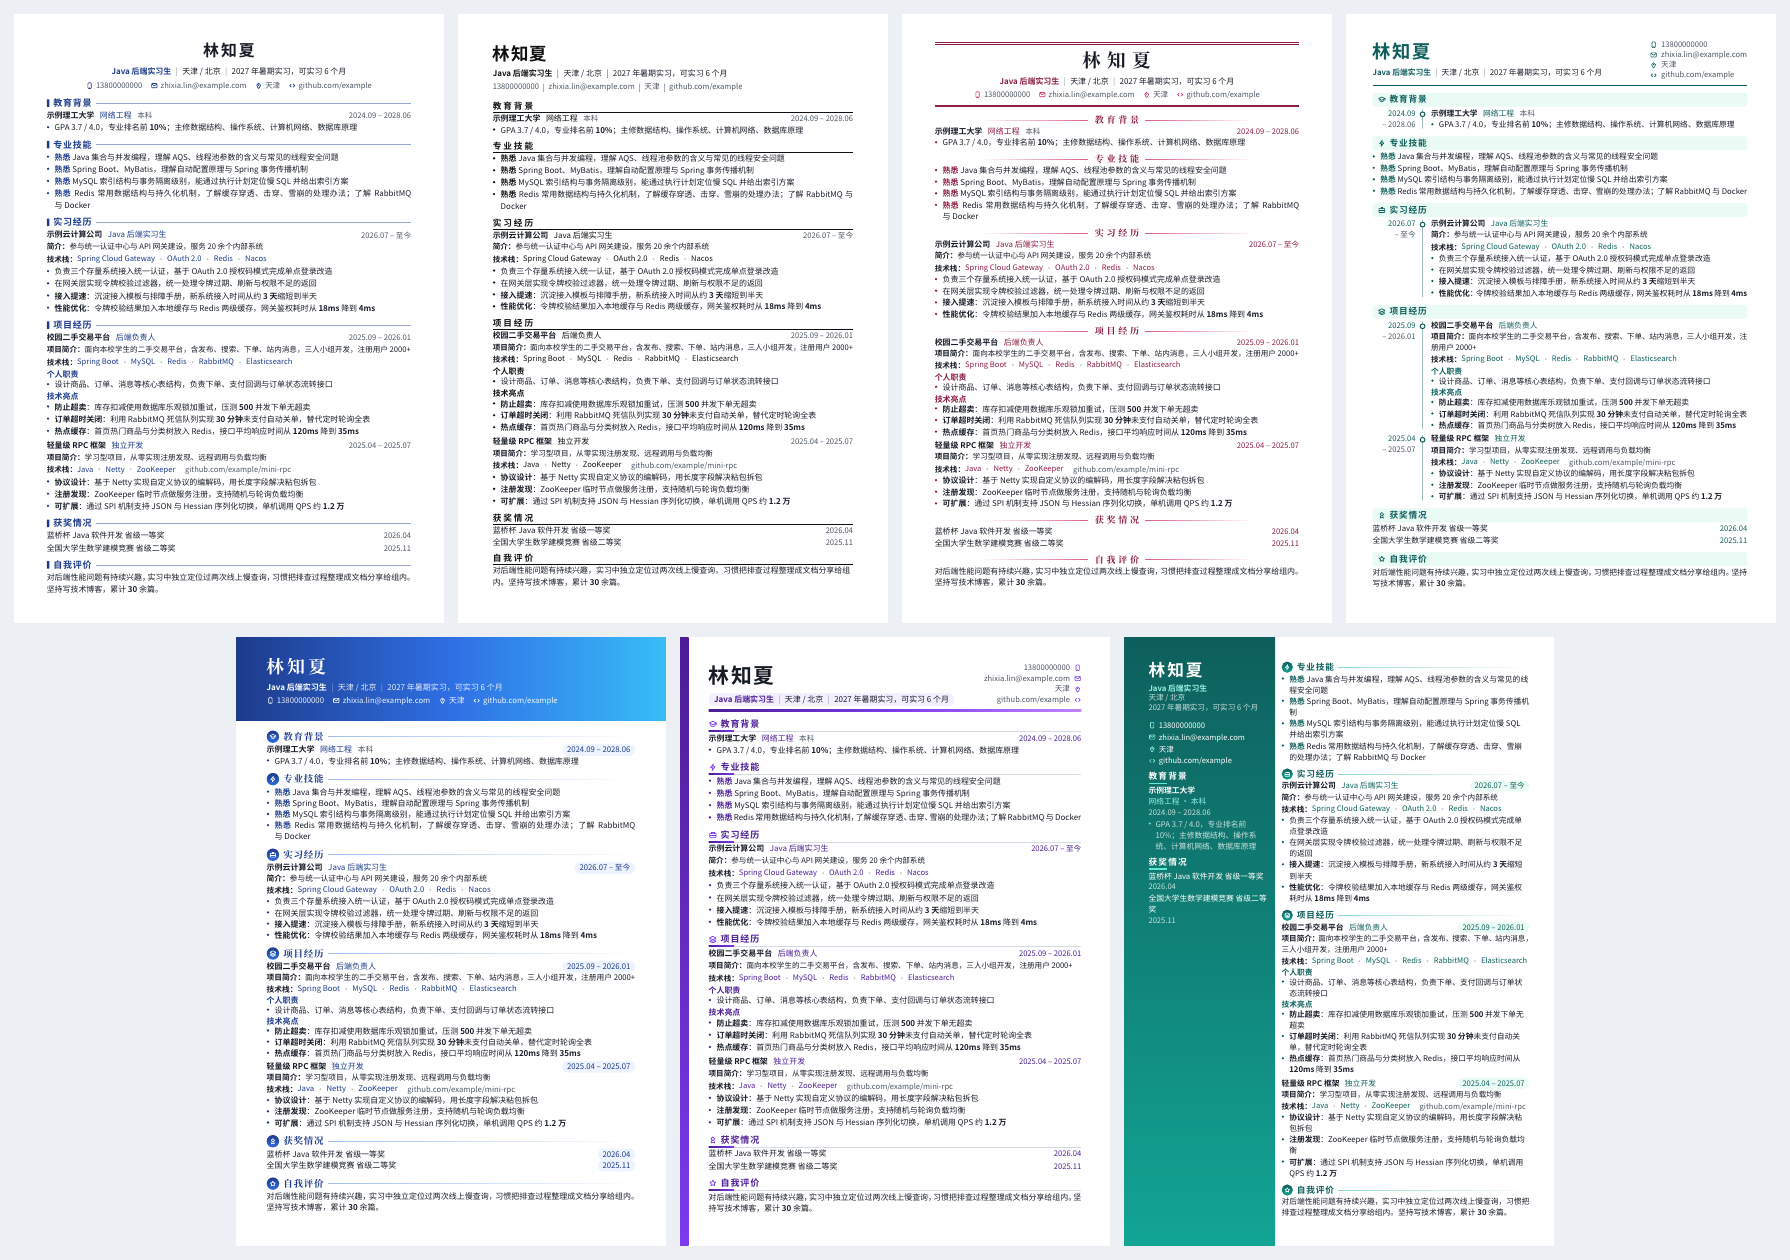
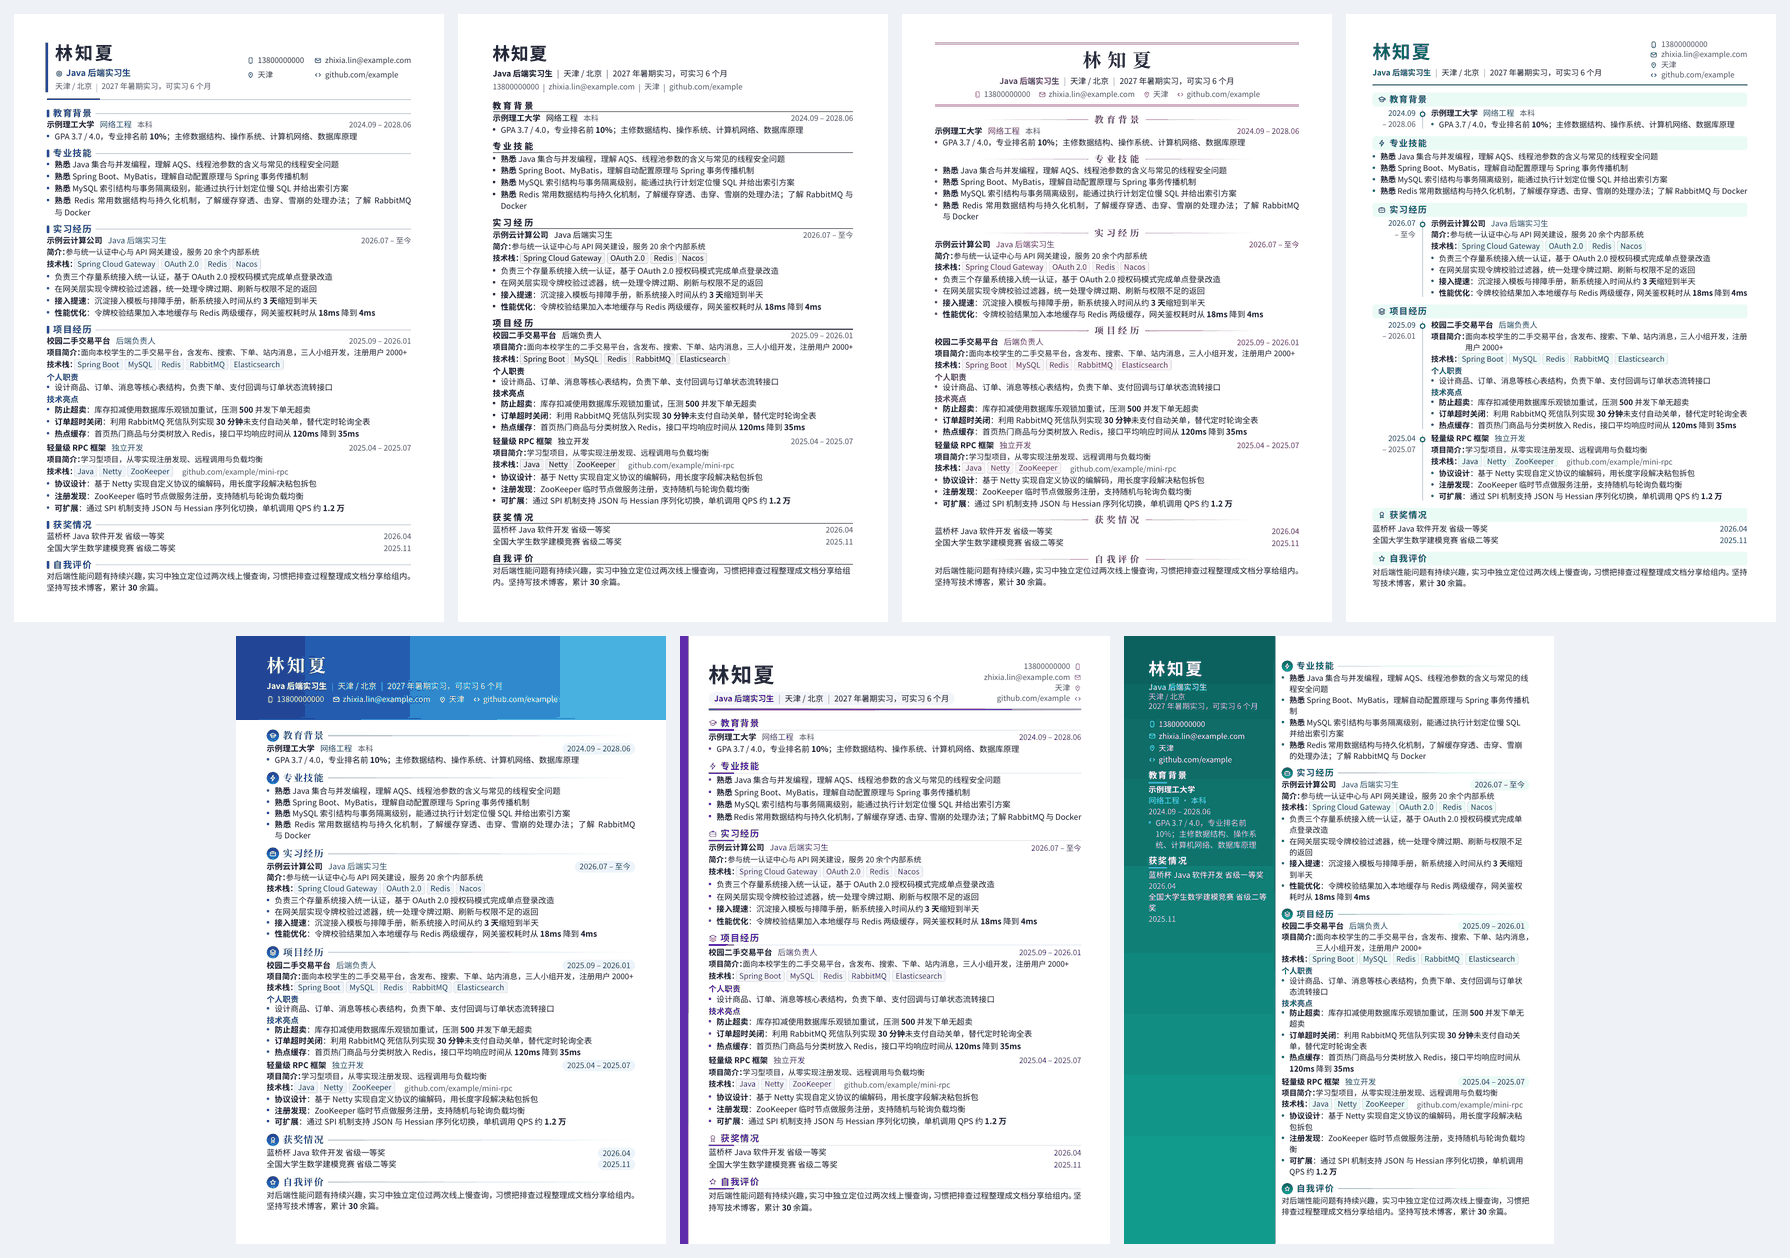
docs: 重写 README，更新截图

diff --git a/README.md b/README.md
@@ -1,151 +1,93 @@
 # 如页 Ruye
 
-**开源、本地优先的中文技术简历编辑器。所见即导出：预览是什么样，导出的 PDF 就是什么样。**
+开源、本地优先的中文技术简历编辑器。预览用的就是导出 PDF 的那次排版，看到什么就导出什么。
 
 [![CI](https://github.com/a-xiaoyuan/ruye-resume/actions/workflows/ci.yml/badge.svg)](https://github.com/a-xiaoyuan/ruye-resume/actions/workflows/ci.yml)
 [![在线 Demo](https://github.com/a-xiaoyuan/ruye-resume/actions/workflows/pages.yml/badge.svg)](https://a-xiaoyuan.github.io/ruye-resume/)
 [![License: MIT](https://img.shields.io/badge/license-MIT-blue.svg)](LICENSE)
-![Node](https://img.shields.io/badge/node-%E2%89%A522.18-339933)
-![pnpm](https://img.shields.io/badge/pnpm-10-f69220)
 
-你只负责写内容，排版交给一个真正的排版引擎（[Typst](https://typst.app)）。
-不登录就能用，没有会员、没有水印，默认简历不出你的浏览器；需要多台电脑同步时，可以自己部署一个可选的同步后端（Spring Boot）。
+**在线使用：<https://a-xiaoyuan.github.io/ruye-resume/>**
+无需注册。首次打开要下载约 34MB 的排版引擎和字体，之后由浏览器缓存。
 
-**在线使用：<https://a-xiaoyuan.github.io/ruye-resume/>**（纯静态页面，首次打开需要下载约 34MB 的排版引擎和字体，之后浏览器会缓存）
+![如页编辑器](docs/ui.png)
 
-![如页编辑器：左侧版式与模块，中间表单，右侧 A4 实时预览](docs/ui.png)
+## 特点
 
-## 三句话认识如页
+- **预览即导出**：预览和 PDF 都由浏览器里的 [Typst](https://typst.app) WASM 排版，用同一份输入、同一次排版结果，不存在网页和打印两套样式。
+- **一页就是一页**：A4 智能一页在可读性底线内自动收紧；实在装不下就直接报错，说明超出多少毫米、哪个模块最占地方，不会偷偷缩小字号或多出一页。
+- **本地优先**：简历保存在浏览器本地，PDF 在本地生成，断网也能用。需要多台电脑同步时，可以自己部署可选的同步后端。
 
-1. **预览与 PDF 同源。** 整个应用只有一个排版器——浏览器里的 Typst WASM。预览用它出 SVG，导出用它出 PDF，喂的是同一份输入、同一次排版结果。不用 html2canvas 截图，也没有「网页一套、打印一套」。
-2. **「一页」是诚实的。** A4 智能一页会在可读性底线内自动收紧；**装不下就明确失败**，告诉你超出多少毫米、哪个模块最占地方，而不是悄悄把字缩成蚂蚁或多打一页。
-3. **本地优先。** 简历默认只存在 localStorage，PDF 在本地生成，断网也能用。登录同步是可选的：本机始终是主副本，云端只是同步副本，两边同时改过时两份都保留，不会二选一丢掉。
+## 页面模式
 
-## 三种页面模式
-
-| 模式 | 是什么 | 适合 |
+| 模式 | 说明 | 适合 |
 |---|---|---|
-| **A4 智能一页** | 真正的 210×297mm 一页。超出时按「间距 → 紧凑版式 → 行距 → 字号」逐步收紧，装不下就报错并给出溢出报告；内容明显不满一页时，在上限内放宽间距与行距，让页面自然填满（字号不变） | 打印、投递 |
-| **无损长一页** | A4 宽、高度随内容变化的**单页** PDF。不缩字号、不挤版面 | 屏幕投递（邮件、网申附件） |
-| **标准分页** | 普通 A4 分页。多于一页时页脚印「1 / 2」，页数取自 Typst 实际分页，导出后再读 PDF 自身页数核对 | 打印 |
+| A4 智能一页 | 超出时依次收紧间距、版式、行距、字号；装不下时报错并给出溢出报告。内容偏少时适当放宽间距 | 打印、投递 |
+| 无损长一页 | A4 宽、高度随内容变化的单页 PDF，不缩字号 | 邮件、网申附件 |
+| 标准分页 | 普通 A4 分页，页脚印页码 | 打印 |
 
-可读性底线：正文 ≥ 10.5pt，行距 ≥ 1.35，页边距 ≥ 12mm。
-溢出报告来自真实排版——每个模块、条目占多高，是**把它拿掉重排一次量出来的**，不是按字数估算。预览里会直接画出 A4 底边和溢出区域。
+可读性底线：正文 ≥ 10.5pt，行距 ≥ 1.35，页边距 ≥ 12mm。溢出报告里每个模块的高度，是把它拿掉后重新排版实际量出来的。
 
-## 七套模板 × 六种主题色
+## 模板
 
-| 模板 | 风格 | 推荐场景 |
-|---|---|---|
-| `classic` 经典 · 简洁（默认） | 页眉左右两栏：左边姓名与求职意向（主色竖条收边），右边联系方式排成小表格；单一主色、细线标题，照片在最右 | 绝大多数投递，打印与系统解析最稳妥 |
-| `minimal` 极简 · 黑白 | 只用黑与深灰，无图标无色块，标题下一条黑线（主题色不生效） | 黑白打印、对格式要求保守的投递 |
-| `elegant` 雅致 · 衬线 | 页眉上下双细线、宋体姓名居中，模块标题居中、两侧渐隐短线 | 国企、银行、研究岗 |
-| `timeline` 时间轴 | 经历按时间轴排：左侧时间列、竖线与圆点，右侧内容；浅色标签条标题 | 经历多、时间线清晰 |
-| `campus-serif` 校招 · 横幅 | 页顶通栏渐变横幅、白色姓名与联系方式，模块标题配渐变圆形图标，日期是浅色胶囊 | 应届生、实习 |
-| `social-sans` 社招 · 侧条 | 纸张左缘渐变色条、大号姓名、联系方式竖排，信息更密，技能与履历优先 | 1～8 年经验 |
-| `split-compact` 双栏 · 深色侧栏 | 左侧深色渐变侧栏（白字、技能胶囊），右侧经历；按实测高度自动平衡两栏 | 内容多、想压住一页 |
+七套模板，六种主题色（海蓝、青碧、胭脂、紫藤、琥珀、石墨），换模板、换颜色都不用重填内容。
 
-主题色：海蓝 / 青碧 / 胭脂 / 紫藤 / 琥珀 / 石墨，每个主题是一整套色板（深色主色、鲜明辅色、亮色、浅底），渐变和色块都从同一套色板取色。文字只用深色主色，打印对比度有保证。同一份内容随时换模板换色，不用重填。
+| 模板 | 风格 |
+|---|---|
+| 经典 · 简洁（默认） | 左边姓名与求职意向，右边联系方式，单一主色，适合大多数投递 |
+| 极简 · 黑白 | 只用黑与深灰，适合黑白打印 |
+| 雅致 · 衬线 | 宋体姓名居中，适合国企、银行、研究岗 |
+| 时间轴 | 左侧时间列，经历按时间排列 |
+| 校招 · 横幅 | 顶部渐变横幅，适合应届生、实习 |
+| 社招 · 侧条 | 左缘色条、信息更密，适合 1～8 年经验 |
+| 双栏 · 深色侧栏 | 左侧深色侧栏，两栏按实际高度自动平衡 |
 
-![七套模板预览：同一份完整示例，A4 智能一页](docs/preview.png)
+![七套模板预览](docs/preview.png)
 
-## 编辑体验
+## 编辑器
 
-- **排版台**：左侧是浮在背景上的编辑面板，顶部一排模块标签，点一下跳到对应模块；右侧是 A4 实时预览，纸张旁有一把「模块高度标尺」，哪个模块最占地方一眼可见，点标尺也能跳过去。模板、主题色与页面模式在顶栏「外观」里，缩略图用真实排版生成。排版在后台线程（Web Worker）里跑，长简历收紧时打字也不卡；连续修改时只排最新一版。编辑器界面有浅色 / 深色两种皮肤，背景带轻微的粒子与光晕动效（系统开启「减少动态效果」时自动关闭）。
-- **我的简历**：所有简历以封面卡片列出，可新建、复制、重命名、删除，为不同岗位各存一版（如「投字节-后端」）。删除的简历先进回收站；每份简历自动保存历史版本，可以对比字数变化并一键恢复。登录同步后，云端的历史版本也会一起列出。
-- **十一种模块**：基本信息（含照片）、求职意向、教育、工作、实习、项目、技能、科研、论文、获奖、自我评价。要点里单独一行「个人职责：」会成为分块小标题，「防止超卖：……」会加粗句首短标题。模块可拖拽排序、显隐开关，也可一键按当前模板的推荐顺序排列。
-- **专业技能两种写法**：「分类 ｜ 技能、技能」列技术栈，描述句写掌握深度（句首的「精通 / 熟悉 / 了解」自动加粗），可以只用一种，也可以混用。
-- **为写简历设计的表单**：日期直接点选年月（选完开始自动弹出结束，一键「至今」，结束早于开始会提示）；性别、城市、学历、到岗时间等常用值一点即填；技术栈标签输入并按你已写过的技术给出候选；要点逐条编辑，粘贴一段带序号或圆点的文字会自动拆成多条；出生年月可选择在简历上显示为年龄。全局撤销 / 重做（Ctrl+Z / Ctrl+Shift+Z），拖入 `.ruye.json` 或 Markdown 文件即可导入。
-- **两种数据格式**：`.ruye.json` 与 Markdown **双向互转**（照片以内嵌图片保存在 Markdown 里，文件自包含），可以用 Git 管理你的简历，也可以粘贴给别的工具。
-- **PDF 质量**：文字可选中、可搜索，链接可点击，中文字体内嵌，不是整页位图。
-- **缺字检测**：内置字体是 GB2312 子集（3 个文件共 5.6MB，完整字体要 27.6MB），导出前会列出缺字，避免交付一份带方块的简历。
-- **按岗位的示例**：「文件 → 从岗位示例新建」提供 Java 后端、Go 后端、前端、测试开发、算法、产品经理六份原创示例，各配一套合适的模板，内容按「职责 / 成果」分块、带量化结果。
-- **写作建议**：编辑时在当前模块上方提示可以改进的地方——缺联系方式、整段经历没有一个数字、单条过长、只写了「负责 / 参与」、经历重复、「精通」用得太多。只是建议，不影响导出。
-- **可选云同步**：配置了后端地址时，顶栏出现「登录同步」。登录后多份简历在后台自动同步（版本号乐观锁）；两台设备同时改过同一份时，云端版本另存为「冲突副本」；其他设备删除时本机保留，可在账号菜单里重新开启同步。支持退出所有设备、找回密码、注销账号。退出登录、注销账号都不删除本机内容。
-- **导入安全**：链接只接受 http、https、mailto，预览前再清理一遍，打开别人发来的简历文件不会执行脚本。
-
-## 和同类工具的取舍
-
-| 维度 | 如页 Ruye | Reactive Resume | 木及简历 | 简单简历 |
-|---|---|---|---|---|
-| 定位 | 中文技术简历，本地优先 | 全功能简历平台 | Markdown 简历工具 | 表单 + AI 简历工具 |
-| 开源 | MIT，全部代码 | MIT，可 Docker 自托管 | 编辑器核心开源 | 在线服务，未开源 |
-| 账号 | 不需要；同步可选，需自部署后端 | 托管版需要；自托管不需要 | 需要（云端保存） | 需要 |
-| 数据位置 | 默认只在本机浏览器；开启同步后另存一份到你自己的后端 | 自托管数据库或官方云 | 远端存储 | 官方云 |
-| 编辑方式 | 表单 + Markdown/JSON 互转 | 表单，多简历与求职追踪 | Markdown | 表单 + AI 改写 |
-| 排版 | Typst WASM，预览与 PDF 同一排版器 | Web 渲染 | Web 渲染 | Web 渲染 |
-| 一页策略 | 底线内收紧，装不下明确报错并量化溢出 | 自由分页 | 智能一页（官方宣传） | 以模板分页为主 |
-| 导出 | PDF / Markdown / JSON，免费 | PDF / Word / Markdown / JSON | PDF / MD / PNG | 编辑分享免费，PDF 下载为会员功能 |
-
-> 竞品信息来自各自官网与公开资料（2026-11），功能以其最新说明为准。如页不做托管账号、AI 改写、求职追踪；同步只连你自己部署的后端，本机始终是主副本——不想让「一份简历」变成「一份需要平台替你保管的数据」。如果你需要那些能力，上面的工具更值得选。
+- **十一种模块**：基本信息（含照片）、求职意向、教育、工作、实习、项目、技能、科研、论文、获奖、自我评价，可排序、隐藏。
+- **省事的表单**：日期点选年月，一键「至今」；城市、学历、到岗时间等常用值一点即填；技术栈按标签输入；粘贴带序号的段落会自动拆成多条要点；出生年月可显示为年龄。
+- **模块高度标尺**：预览旁标出每个模块占多高，点击跳到对应模块。
+- **写作建议**：提示缺联系方式、经历里没有数字、单条过长、只写了「负责 / 参与」等问题。
+- **多份简历**：「我的简历」里新建、复制、重命名、删除；删除先进回收站，每份简历自动保存历史版本，可随时恢复。支持撤销 / 重做。
+- **导入导出**：PDF（文字可选中、链接可点击、字体内嵌）、`.ruye.json`、Markdown，后两者可以互相转换。导出前会检查字体缺字。
+- **按岗位的示例**：Java 后端、Go 后端、前端、测试开发、算法、产品经理六份虚构示例。
 
 ## 快速开始
 
-需要 **Node.js ≥ 22.18**（直接运行 TypeScript 测试）与 **pnpm 10**。
+需要 Node.js ≥ 22.18 和 pnpm 10。
 
 ```bash
 pnpm install
-pnpm fonts      # 首次：下载思源字体并生成子集（见 docs/fonts.md）
-pnpm dev        # 启动编辑器，默认 http://localhost:5173
+pnpm fonts      # 首次运行：下载思源字体并生成子集，需要 pip install fonttools
+pnpm dev        # http://localhost:5173
 ```
 
 | 命令 | 作用 |
 |---|---|
-| `pnpm test` | 单元测试 + 真实 Typst 黄金测试（无字体时黄金测试自动跳过并说明原因） |
-| `pnpm typecheck` | 对 packages 与 apps/web 做严格类型检查 |
-| `pnpm smoke` | 用真实排版把三份样本按三种模式各导出一遍，输出 `out/*.pdf` 与 `out/report.md` |
-| `pnpm build` | 构建静态站点到 `apps/web/dist`，可直接部署到 GitHub Pages 等任意静态托管 |
+| `pnpm test` | 单元测试与 Typst 黄金测试（没有字体时跳过黄金测试并说明原因） |
+| `pnpm typecheck` | 类型检查 |
+| `pnpm e2e` | Playwright 端到端测试 |
+| `pnpm build` | 构建静态站点到 `apps/web/dist` |
 
-## 它是怎么工作的
+## 同步后端（可选）
 
-```
-一份文档（.ruye.json / Markdown）
-   │  packages/schema     类型定义、零依赖校验器、Markdown 双向映射
-   ▼
-packages/engine           measure → fit-a4 / continuous / standard
-   │                      产出 tokens + 页高 + 溢出报告
-   │  packages/templates  Typst 模板 + default/floor 两套 token + 推荐模块顺序
-   ▼
-Typst WASM（浏览器内）──→ SVG → 右侧预览
-                      └─→ PDF → 本地下载
-```
+`server/` 是 Java 17 + Spring Boot 3 的同步服务：注册登录、多份简历同步、云端历史版本。默认用 H2，也支持 MySQL。不登录时前端不会访问它。部署方式见 [server/README.md](server/README.md)。
 
-关键点：**预览和导出共用同一次 layout 的结果**，所以不存在「预览一个样、导出另一个样」。
-前端构建产物是纯静态文件，不依赖后端。`server/` 是可选的同步后端（Java 17 + Spring Boot 3 + Spring Security JWT + JPA，H2 / MySQL），详见 [server/README.md](server/README.md)。
+本机始终是主副本。两台设备同时改了同一份简历时，两份都会保留；退出登录或注销账号都不会删除本机内容。
+
+## 项目结构
 
 ```
-apps/web/               Vite + React 18 编辑器（版式面板、模块导航、表单、预览）
-packages/schema/        文档类型、零依赖校验、Markdown 互转、日期归一化
-packages/engine/        排版引擎：measure / fit-a4 / continuous / 溢出报告 / Typst 后端
-packages/templates/     七套 Typst 模板、common.typ、排版 token
-server/                 可选的云同步后端（Spring Boot）：注册登录、简历同步 API
-fixtures/               虚构示例：full（默认载入）/ 五个岗位示例 role-* / 排版测试样本 short / medium / long
-e2e/                    Playwright 端到端测试
-tests/                  单元测试与 Typst 黄金测试
-docs/                   设计说明、字体说明、界面与模板截图、阶段报告
-scripts/                字体下载与子集、smoke 导出
+apps/web/            React 编辑器
+packages/schema/     文档类型、校验、Markdown 互转
+packages/engine/     排版引擎：一页收紧、长一页、分页、溢出报告
+packages/templates/  Typst 模板与排版参数
+server/              可选的同步后端
+fixtures/            虚构示例简历
+tests/  e2e/         单元测试、端到端测试
 ```
 
-## 测试与 CI
+## 许可证
 
-- **单元与集成测试 114 项**（`pnpm test`）：schema 校验与 Markdown 互转、写作检查、文档操作、排版引擎、云同步三方合并与令牌自动刷新、导入解析、缩略图是否过期、Typst 真实黄金测试（七套模板 × 样本 × 模式）。
-- **后端接口测试 18 项**（`cd server && mvn test`）：注册登录、刷新令牌轮换与重用检测、退出所有设备、找回密码、注销账号、IP 与邮箱限流、版本冲突、账号隔离、文档校验与限额、CORS、定时清理。
-- **端到端测试**（Playwright，真实浏览器）：`pnpm e2e` 走编辑、换模板、导出 PDF、Markdown 往返、撤销、刷新后内容仍在、写作建议；先启动后端再运行 `pnpm e2e:sync`，用两个浏览器上下文模拟两台设备测同步。首次运行先 `pnpm exec playwright install chromium`；下载慢时可设置 `E2E_BROWSER_CHANNEL=chrome` 直接用本机 Chrome。
-- **CI**：每次 push 到 `main` 自动执行前端 `install → typecheck → test → 准备字体 → test → build`，以及后端 `mvn test`（见 `.github/workflows/ci.yml`）。
-- 黄金测试依赖真实字体与 WASM，本地没准备好时会自动跳过并打印原因，不会假装通过。
-
-## 路线图
-
-已完成：文档模型与校验、排版引擎与溢出报告、七套模板与六种主题色、要点小标题与自我评价、三栏编辑器、多份简历、Markdown/JSON 互转、本地自动保存、Web Worker 排版、GitHub Pages 在线 Demo、可选的账号与云同步后端。
-
-计划中：缺字时按需加载完整字体、只读分享链接。
-
-**明确不做**：强制登录、支付、会员、AI 改写、服务端渲染、自动删减你的内容。
-
-## 字体与许可证
-
-- 代码：**MIT**（见 [LICENSE](LICENSE)）
-- 字体：思源黑体 / 思源宋体（Noto Sans SC / Noto Serif SC），**SIL Open Font License 1.1**。字体不进仓库，用 `pnpm fonts` 下载并裁成子集（需要 `pip install fonttools`），体积与缺字处理详见 [docs/fonts.md](docs/fonts.md)。
-
-## 贡献
-
-欢迎 Issue / PR。新模板请走「token + Typst 模板文件」的方式（见 `packages/templates`），不要引入后端。提交前请跑 `pnpm test` 与 `pnpm typecheck`。
+代码使用 [MIT](LICENSE)。字体为思源黑体 / 思源宋体（SIL Open Font License 1.1），不放进仓库，由 `pnpm fonts` 下载。
